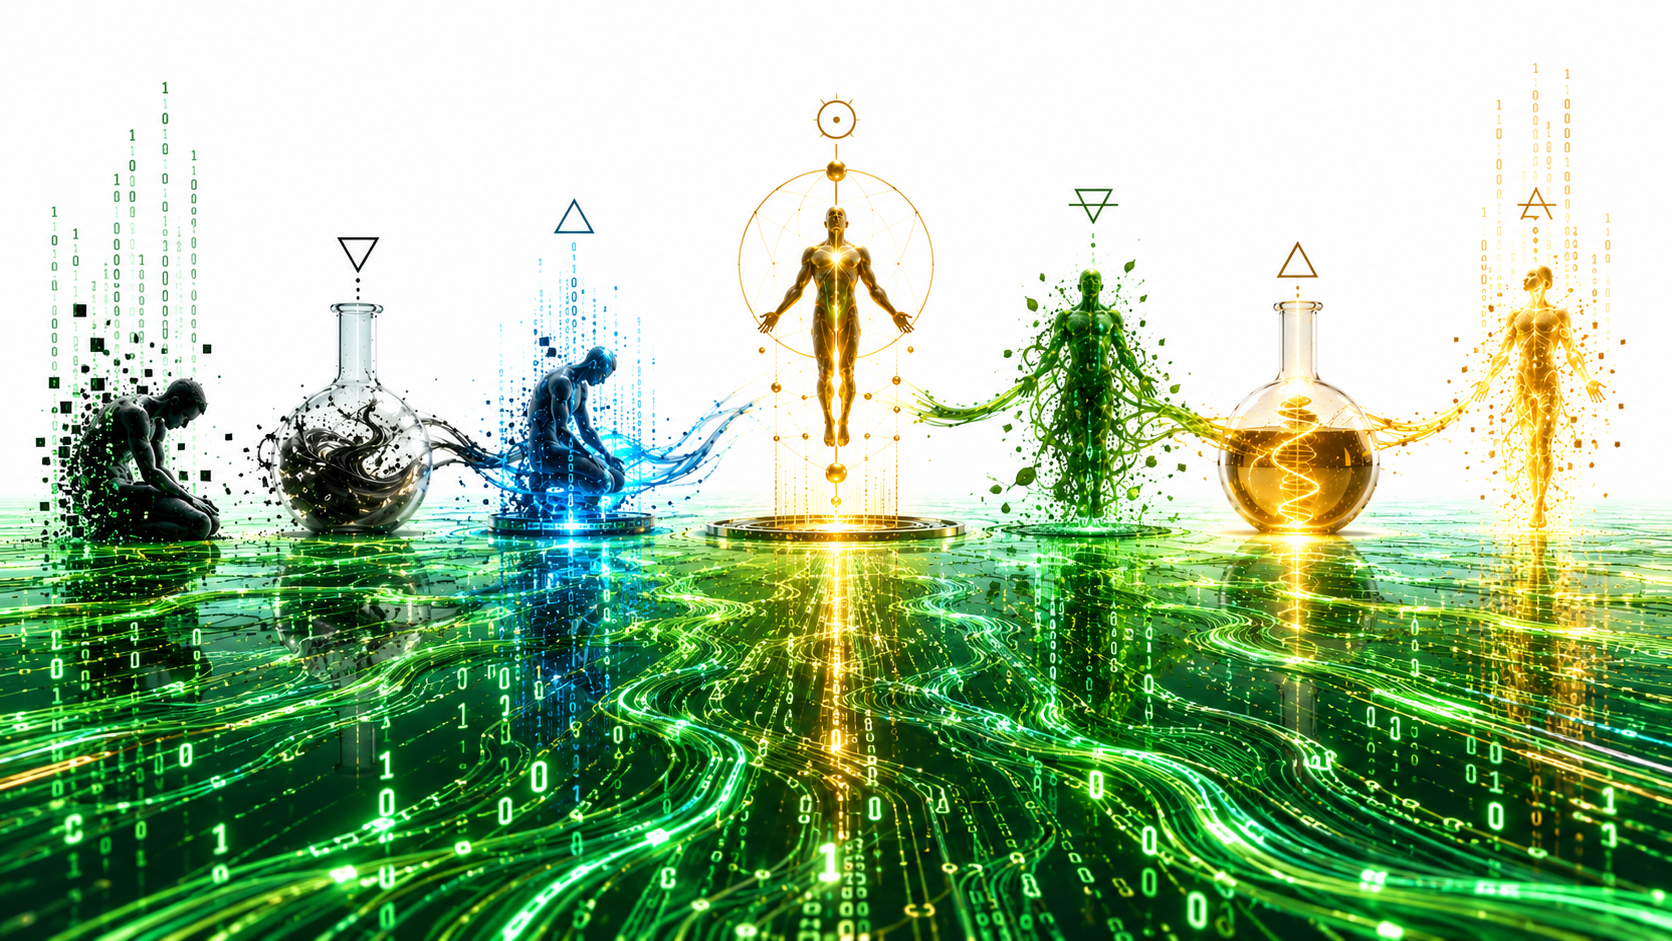
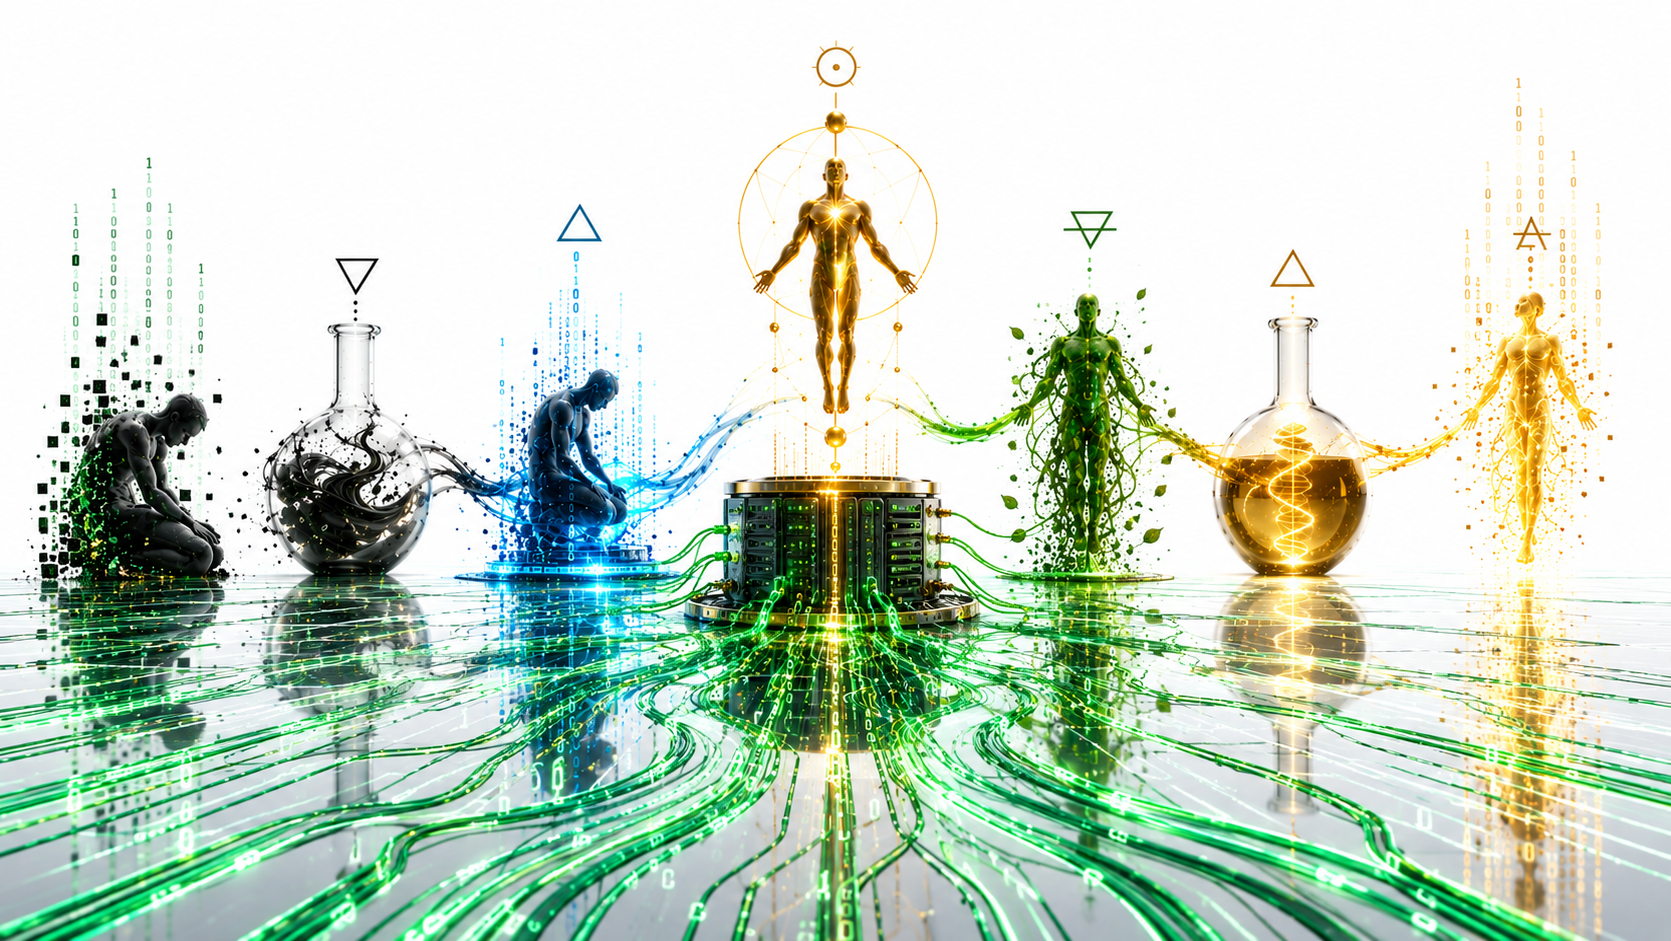
changes

diff --git a/README.md b/README.md
@@ -1,105 +1,4 @@
 # the_alchemical_code_garden
 
 A sci-fi/alchemical landing page for *The Alchemical Medium* — Philosophy of Coding in the Era of the Apex Mind by Joseph Wanyora Gikara.
-
-Visitors can **read** the HTML ebook, **download** PDF/EPUB, and **support** the work via a custom M-Pesa Daraja STK push flow backed by Firebase Functions.
-
-## Files
-
-| File | Purpose |
-|------|---------|
-| `index.html` | Landing page — hero, action buttons, M-Pesa modal, synopsis modal |
-| `index.png` | Hero background artwork |
-| `The Alchemical Medium.html` | Read-in-browser version of the book |
-| `the-alchemical-medium-3.pdf` | Downloadable PDF |
-| `the-alchemical-medium.epub` | Downloadable EPUB |
-| `firebase.json` | Firebase Hosting + Functions config |
-| `functions/` | Firebase Functions (TypeScript) backend |
-
-## Frontend
-
-`index.html` is a self-contained page. To wire up M-Pesa, fill in your **Firebase config** in the `firebaseConfig` object at the top of the module script, then deploy the functions (see below). The callable function is named `initiateStkPush` in region `us-central1`.
-
-The payment flow:
-
-1. Click an amount button (KSh 100 / 250 / 500 / 1000) → opens the M-Pesa modal.
-2. Enter an M-Pesa number, click **Send**.
-3. `initiateStkPush` runs the STK push; the pending transaction is logged to Firestore `transactions`.
-4. Safaricom calls the callback endpoint → final status recorded in `transactions`.
-
-## Setup
-
-### 1. Frontend config
-
-Paste your **Firebase project web config** (Project settings → Your apps) into the
-`firebaseConfig` object near the top of `index.html`. The callable function is
-`initiateStkPush` in the `us-central1` region (change the region in the module
-script if you deploy elsewhere).
-
-### 2. Install the Firebase CLI
-
-```bash
-npm install -g firebase-tools
-firebase login
-firebase use --add   # link to your project
-```
-
-### 3. Configure Daraja (Safaricom)
-
-Create an app at [developer.safaricom.co.ke](https://developer.safaricom.co.ke/), then copy the values into `functions/.env`:
-
-```bash
-cp functions/.env.example functions/.env
-# edit functions/.env with your real keys
-```
-
-Required values:
-
-- `DARAJA_ENV` — `sandbox` or `production`
-- `DARAJA_CONSUMER_KEY` / `DARAJA_CONSUMER_SECRET` — OAuth credentials
-- `DARAJA_SHORTCODE` — paybill/till number (sandbox test: `174379`)
-- `DARAJA_PASSKEY` — from the Daraja dashboard
-- `DARAJA_CALLBACK_URL` — the deployed HTTPS callback, e.g.
-  `https://us-central1/<PROJECT_ID>.cloudfunctions.net/mpesaCallback`
-  (or the hosting rewrite `https://<your-domain>/mpesa/callback`)
-
-When you run `firebase deploy --only functions`, firebase-tools automatically makes
-the values defined in `functions/.env` available to your deployed functions
-(they are loaded in both the emulator and production). **Do not commit
-`functions/.env`** — it is already covered by `.gitignore`.
-
-> Names must not use the reserved prefixes `X_GOOGLE_`, `FIREBASE_`, `EXT_`, `KIT_`
-> (this is why the Firebase web config lives in `index.html`, not in `.env`).
-
-### 4. Install dependencies
-
-```bash
-cd functions && npm install && cd ..
-```
-
-### 5. Deploy
-
-```bash
-firebase deploy --only functions,hosting   # production
-```
-
-### 6. Run locally for testing
-
-```bash
-firebase emulators:start
-```
-
-## Firestore
-
-Transactions (both `pending` and final) are written to the `transactions` collection:
-
-```
-phone: string
-amount: number
-accountReference: "the-alchemical-medium"
-checkoutRequestId: string
-status: "pending" | "success" | "failed"
-resultCode / resultDesc: (final)
-mpesaReceipt / partyA: (final, when present)
-initiatedAt / reportedAt: serverTimestamp
-```
+the object below the central figure/ person should be an advanced futuristic computer server and some of the tapestry lines should connect to it like a plug. only the bottom green lines should be electric-green, the background should be clear white
